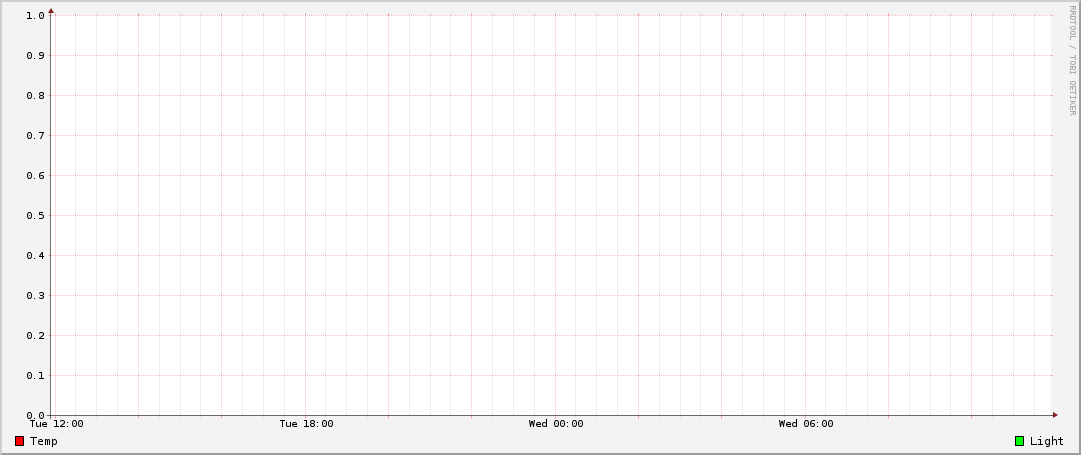
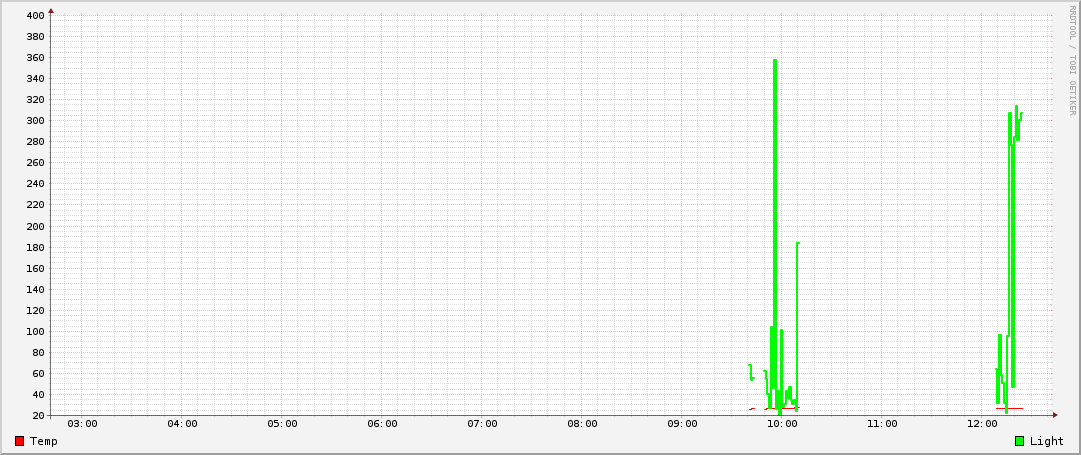
rrd works

diff --git a/main.py b/main.py
@@ -1,6 +1,6 @@
 import serial
 from cam import shoot, editImage, tweet
-from useRRD import addData, graphRRD
+from useRRD import addData, graphRRD, saveGraphToHtml
 
 port = serial.Serial('/dev/ttyAMA0',115200,timeout = 1)
 data = []
@@ -8,18 +8,19 @@ data = []
 while True:
 	dataReceivedString = port.readline()
 	currentData = dataReceivedString.split(' ')
-	#data.append(currentData)
 	print(currentData)
-	if currentData != ['']:
+	if len(currentData) == 3:
 		temp = currentData[0]
 		lux = currentData[1]
 		data.append(currentData)
+		addData(temp, lux)
+                graphRRD()		
+		saveGraphToHtml()
 		if currentData[2] == '1':
 			print('shoot!')
 			shoot(temp,lux)		
 			editImage(temp)
 			tweet(temp,lux)
-			addData(temp, lux)
-			graphRRD()
-			print('Tweeted successfully!')
+			print('Tweeted successfully!')	
+		
 			

diff --git a/useRRD.py b/useRRD.py
@@ -1,5 +1,6 @@
 #import rrdtool
 import subprocess
+from PIL import Image
 
 def addData(temperature,light):
 	subprocess.call([ 'rrdtool','update','test.rrd',
@@ -10,10 +11,14 @@ def addData(temperature,light):
 def graphRRD():
 	subprocess.call([ 'rrdtool','graph','test.png',
 			'-w','1000','-h','400',
-			'--start', str(-86400),
+			'--start', str(-36000),
 			'--end', 'now',
 			'DEF:temperature=test.rrd:temp:MAX',
 			'DEF:light=test.rrd:light:MAX',
 			'LINE1:temperature#ff0000:Temp',
 			'LINE2:light#00ff00:Light' ])
 	print('graph updated')
+
+def saveGraphToHtml():
+	graph = Image.open('test.png')
+	graph.save('/var/www/html/graph.png')

diff --git a/cam.py b/cam.py
@@ -7,6 +7,7 @@ import datetime as dt
 from time import localtime, strftime
 import sys
 from twython import Twython
+
 CONSUMER_KEY = 'XPMRRREmy4jv6HU1U0N2d6HYv'
 CONSUMER_SECRET = 'MHSkXmP28PW6IEVZ3iCitOlegWLhsZwLN9IBCd16dkOwBacUwU'
 ACCESS_KEY = '722345011652796416-HtuggTLRcgv7DE5rUXrcJftNKLE04tz'
